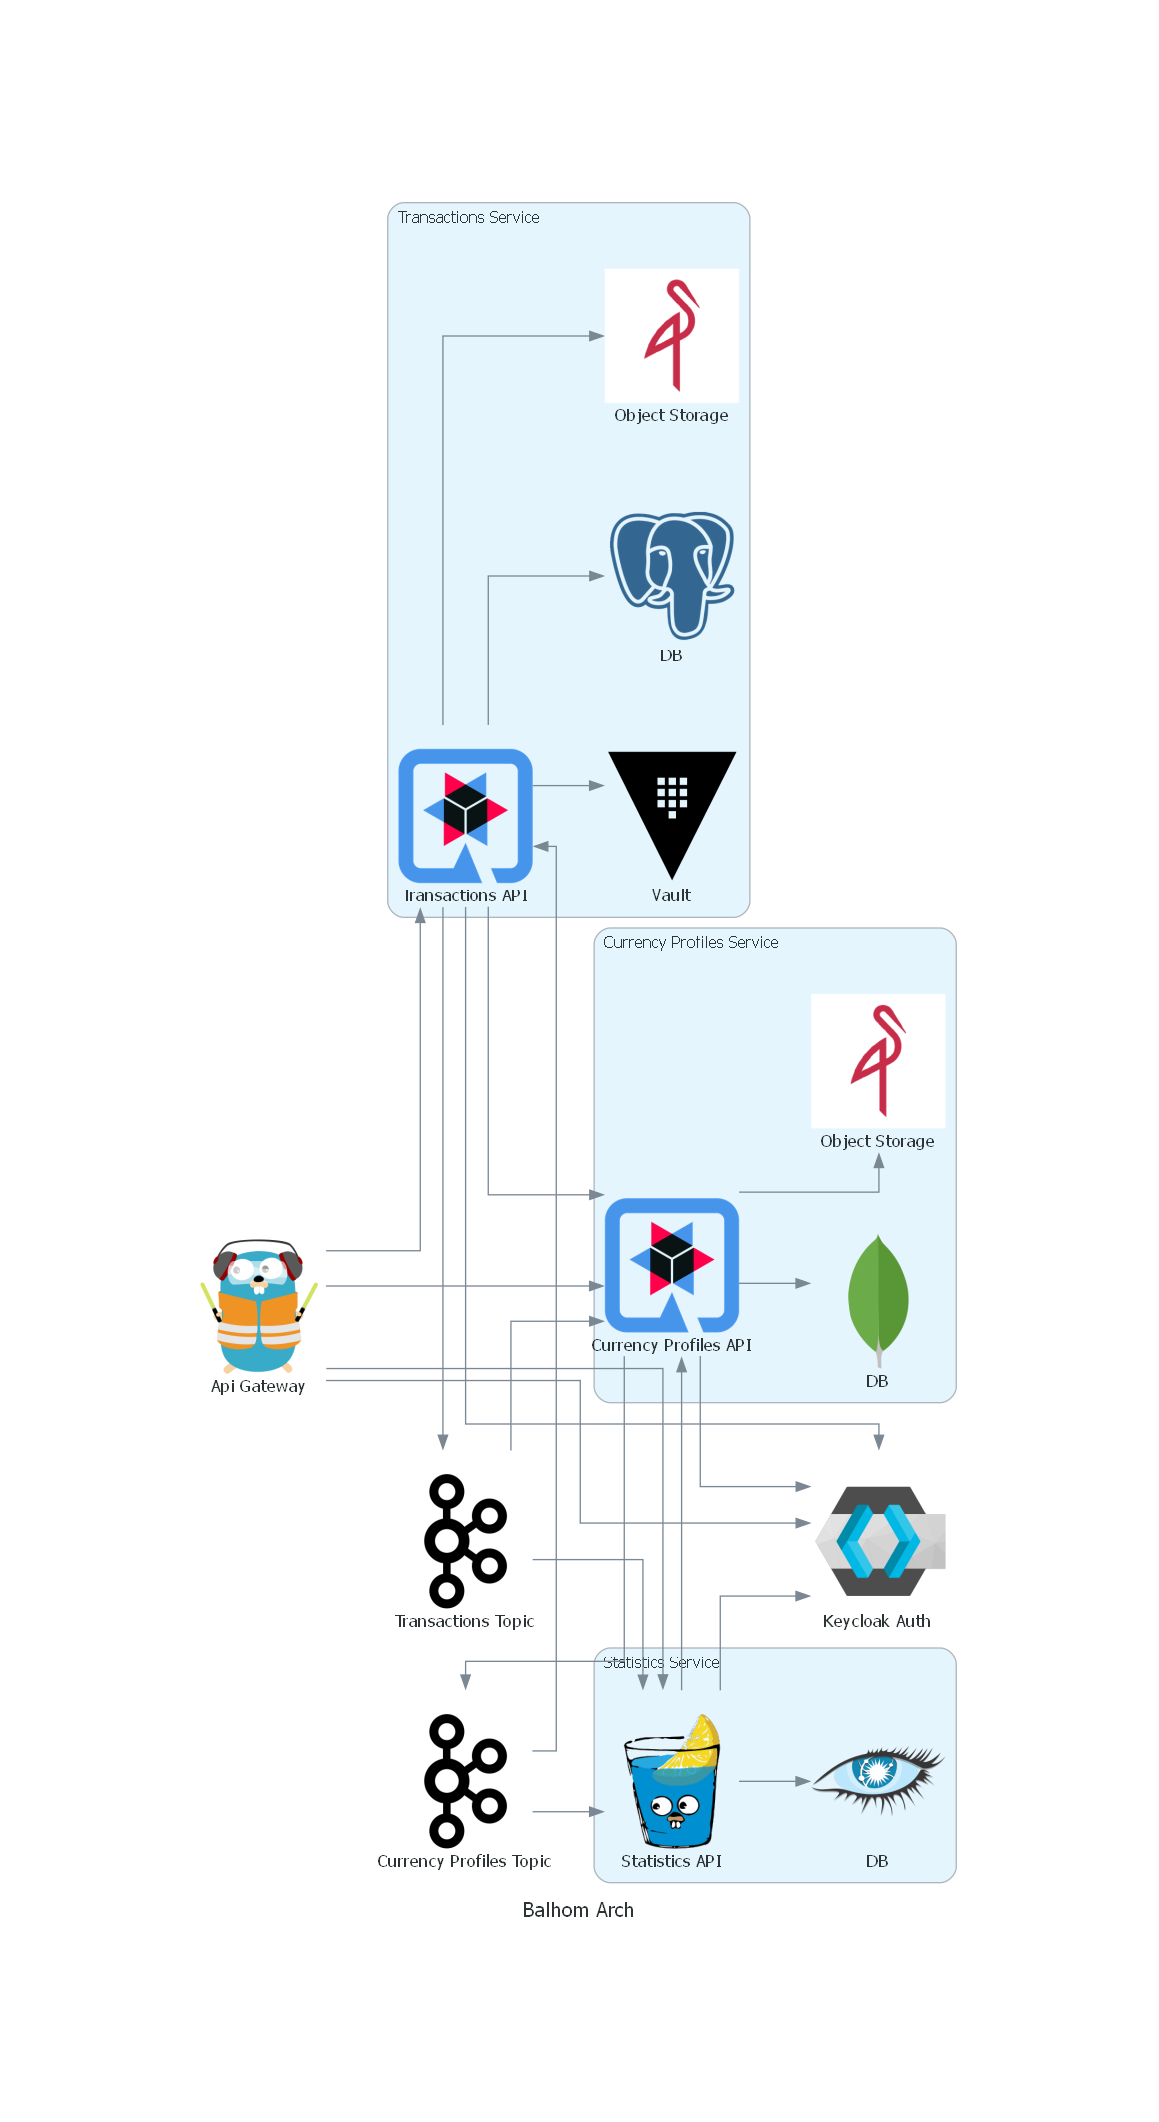
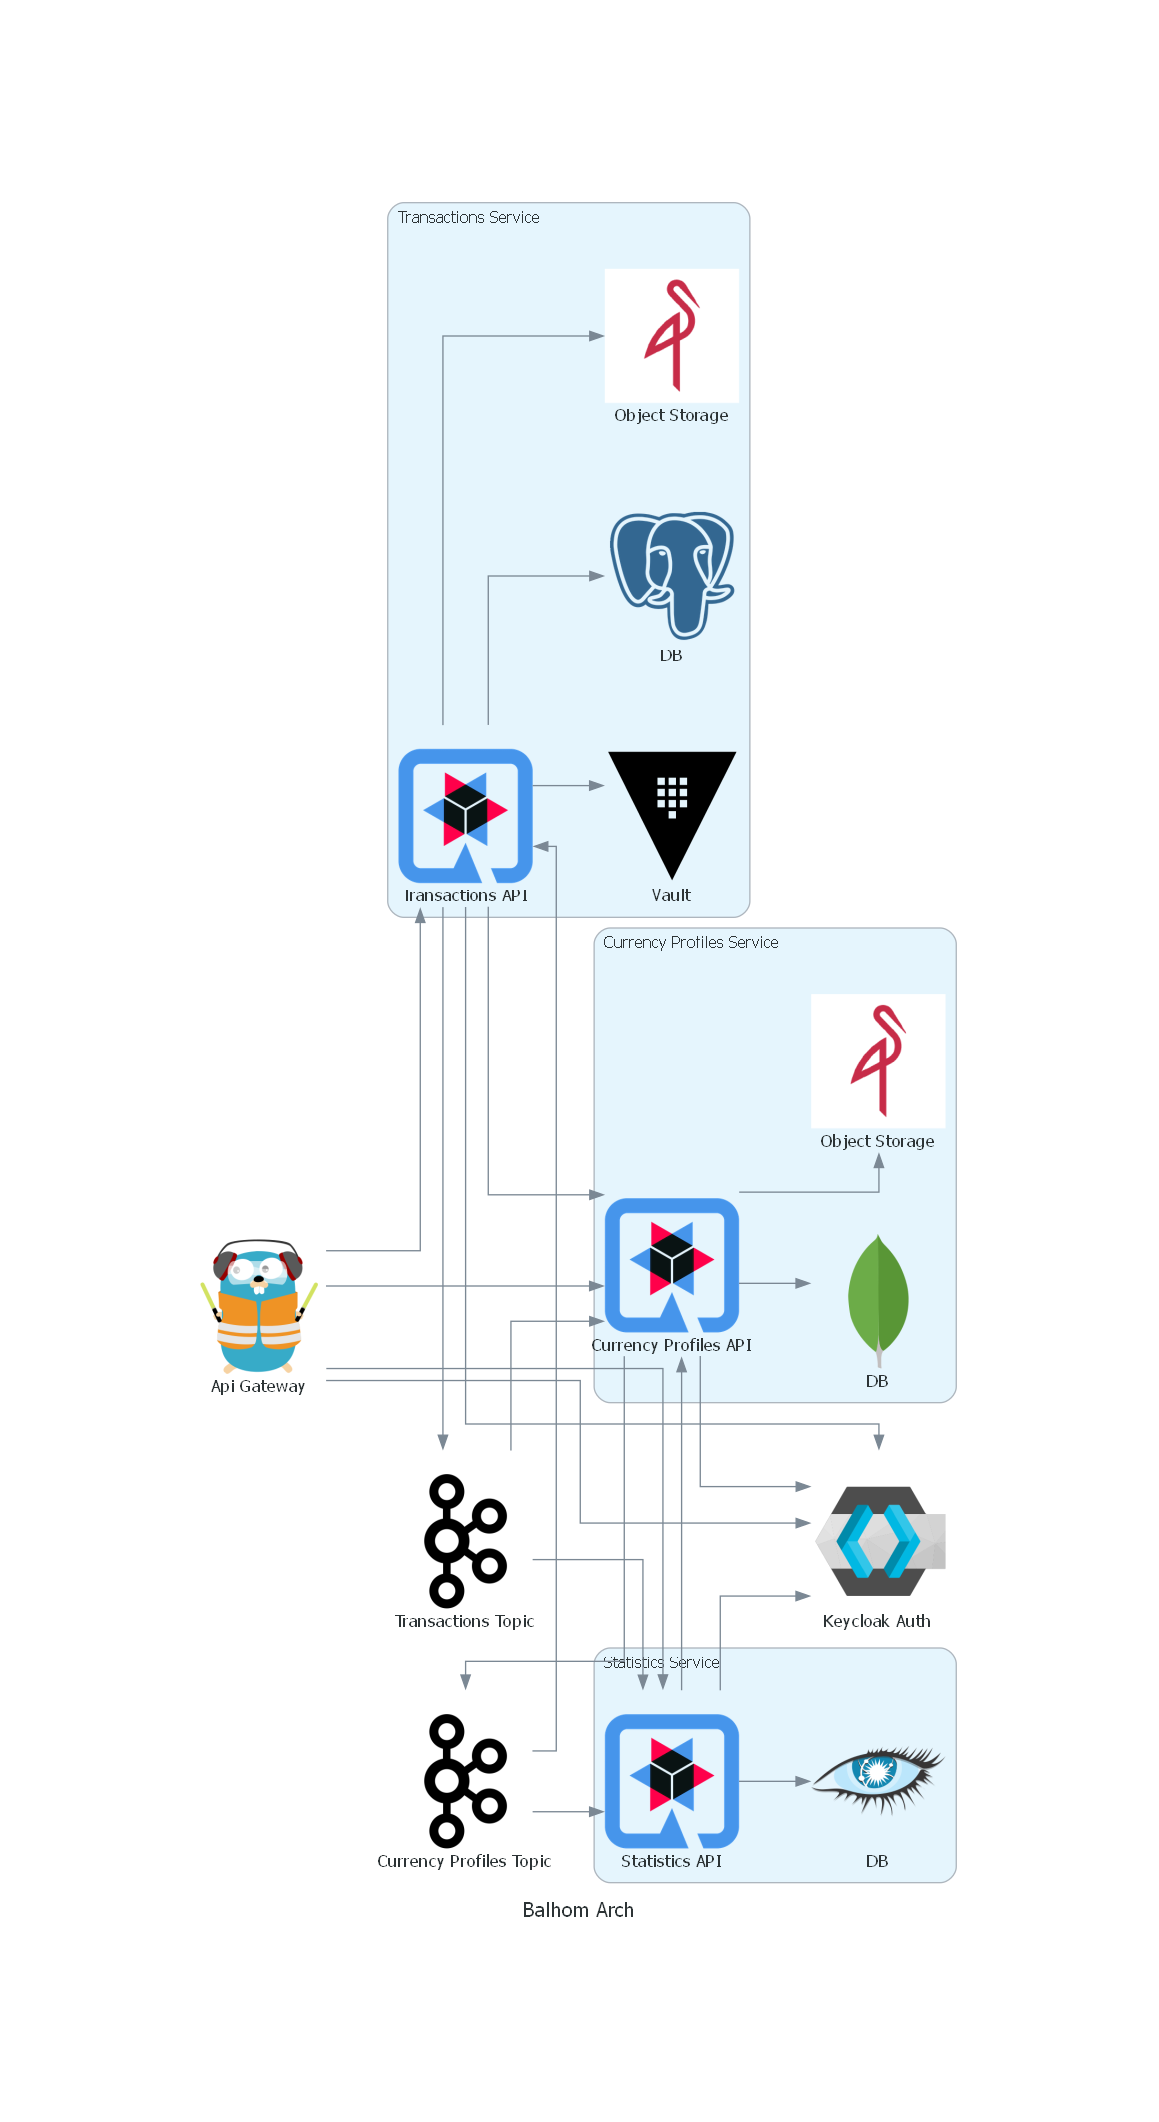
Update Balhom architecture: remove Gin Gonic integration and replace with Quarkus for Statistics API

Changed region(s): [[0.497, 0.8087, 0.6523, 0.8709]]

diff --git a/arch/balhom_arch.py b/arch/balhom_arch.py
@@ -18,11 +18,6 @@ minio_url = "https://avatars.githubusercontent.com/u/695951?s=200&v=4"
 minio_icon = "minio.png"
 urlretrieve(minio_url, minio_icon)
 
-# Gin Gonic
-gin_gonic_url = "https://avatars.githubusercontent.com/u/7894478?s=200&v=4"
-gin_gonic_icon = "gin_gonic.png"
-urlretrieve(gin_gonic_url, gin_gonic_icon)
-
 with Diagram("Balhom Arch", show=True):
 
     # Currency Profiles Cluster
@@ -47,7 +42,7 @@ with Diagram("Balhom Arch", show=True):
 
     # Statistics Cluster
     with Cluster("Statistics Service"):
-        statistics_api = Custom("Statistics API", gin_gonic_icon)
+        statistics_api = Quarkus("Statistics API")
         statistics_db = Cassandra("DB")
 
         statistics_api >> statistics_db
